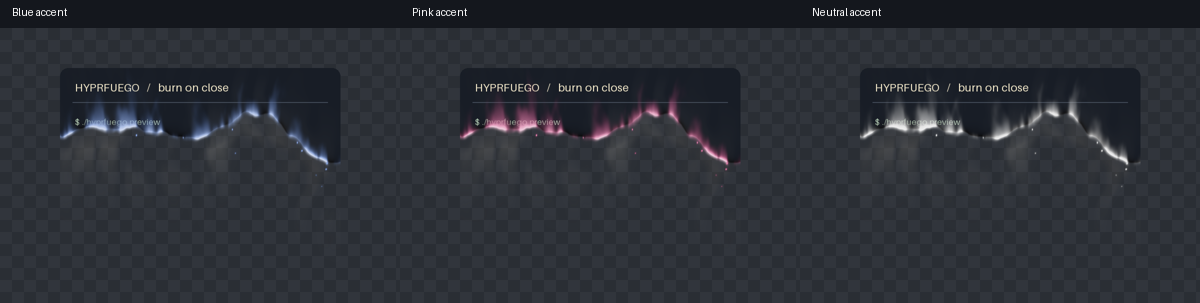
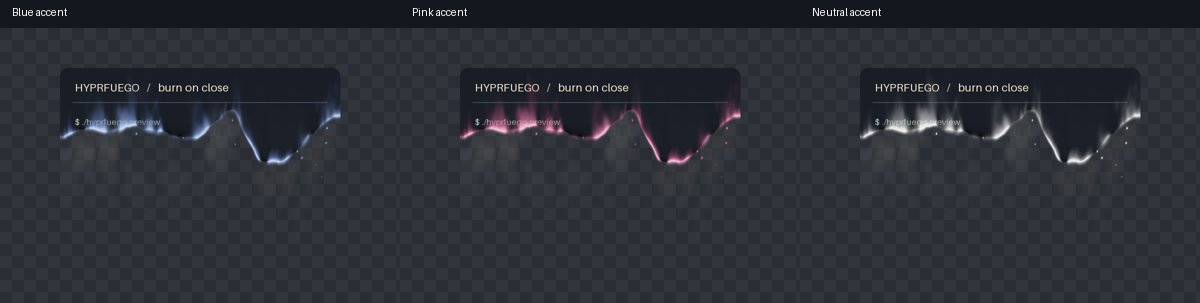
Refresh documentation and previews for smooth burn variety

diff --git a/tools/update_previews.py b/tools/update_previews.py
@@ -53,7 +53,8 @@ def main():
         shutil.copyfile(OUTPUT / name, ROOT / "build" / name)
     shutil.copyfile(OUTPUT / "variety.json", ROOT / "build/variety.json")
     report = json.loads((OUTPUT / "benchmark.json").read_text())
-    sources = ("shaders/burn-close.glsl", "tools/render.py",
+    sources = ("shaders/burn-close.glsl", "shaders/burn-close-size-preview.glsl",
+        "tools/render.py", "tools/update_previews.py", "tools/test_close_seed.cpp",
         "vendor/HyprWindowShade/BurnProfile.hpp", "vendor/HyprWindowShade/CloseSeed.hpp",
         "vendor/HyprWindowShade/ThemeColors.hpp")
     duration = float(re.search(r"(?m)^// @duration\s+([0-9.]+)", (ROOT / sources[0]).read_text())[1])

diff --git a/docs/development.md b/docs/development.md
@@ -85,8 +85,9 @@ It copies these generated assets into `docs/images/`:
 - `burn-theme-colors.png`: blue, pink and neutral flame palettes at 50% progress.
 
 `manifest.json` records the renderer, default duration, seed and source/asset
-hashes. These synthetic previews contain no desktop captures. Scratch data,
-including the 128 seeds, profiles, variety report and benchmark, stays in
+hashes, including both shader variants, the native profile regression and the
+preview generator. These synthetic previews contain no desktop captures. Scratch
+data, including the 128 seeds, profiles, variety report and benchmark, stays in
 `build/previews/`. The default `build/burn-*.png` and GIF paths are refreshed too.
 
 The README's main image, `docs/images/files-burn-desktop.png`, is a manually
@@ -99,17 +100,31 @@ The accepted profile uses 48 sparks and the original three-octave turbulence.
 It retains early lifetime rejection, spark halo culling and flame/smoke envelope
 checks. These changes reduce work while retaining the selected visual settings.
 
-Warmed 800×550 draws on an Intel HD 520, measured on 2026-10-15 with 24 draws per
-version:
+The smooth-profile variety change was measured on an Intel HD 520 with 24 warmed
+800×550 draws per version:
+
+| Shader | Median | 95th percentile |
+| --- | --- | --- |
+| Theme-colors checkpoint, five control points | 3.24 ms | 7.07 ms |
+| Four/five/six control points with independent spacing | 3.68 ms | 6.49 ms |
+
+The median increased by 0.45 ms (about 14%) in this run. Raw samples and exact
+shader hashes are in [the profile baseline](benchmarks/intel-hd520-smooth-variety-before.json)
+and [the updated profile report](benchmarks/intel-hd520-smooth-variety-after.json).
+Both retain 48 sparks and three-octave turbulence.
+
+For historical context, the earlier envelope and spark-culling optimization was
+measured on 2026-10-15, also with 24 warmed 800×550 draws per version:
 
 | Shader | Median | 95th percentile |
 | --- | --- | --- |
 | Before the performance work | 15.14 ms | 16.18 ms |
-| Current: 48 sparks, three-octave turbulence | 4.48 ms | 6.48 ms |
+| After that optimization | 4.48 ms | 6.48 ms |
 
 This run used about 70% less GPU draw time. Raw samples and tested shader hashes
-are in [the baseline report](benchmarks/intel-hd520-before.json) and
-[the current report](benchmarks/intel-hd520-current.json).
+are in [the historical baseline](benchmarks/intel-hd520-before.json) and
+[the historical optimized report](benchmarks/intel-hd520-current.json). Those
+hashes describe that earlier shader, rather than the current profile variety.
 
 These are single-pass shader timings, excluding compilation and image readback.
 They are not whole-desktop frame times or FPS measurements. Larger windows,

diff --git a/README.md b/README.md
@@ -7,7 +7,8 @@ a fresh bottom-up burn shape. The default duration is **1.15 seconds**.
 Most shapes use five smooth control points, with occasional broader four-point
 and more detailed six-point shapes. Point spacing varies independently, and the
 selector avoids shapes similar to the last sixteen closes on the workspace.
-The smooth joins and existing height limits are preserved.
+The smooth joins and existing height limits are preserved, along with the flame,
+smoke and spark animation.
 
 ![Files window closing with Hyprfuego on a live desktop](docs/images/files-burn-desktop.png)
 
@@ -18,6 +19,10 @@ The smooth joins and existing height limits are preserved.
 The screenshot shows a live Files window closing. The linked animation and
 snapshots are rendered from the actual shader on a synthetic window. This is a
 shader recreation, not a port of Compiz's particle engine.
+
+The [pattern sheet](docs/images/burn-patterns.png) shows 18 consecutive generated
+closes at the same point in the animation, making the outline variety easier to
+compare.
 
 ## Compatibility
 
@@ -157,7 +162,8 @@ python3 tools/update_previews.py --hardware # available GPU
 ```
 
 This also validates 128 native-generated close seeds and CPU/GPU profile
-agreement. Generated asset hashes and source hashes are recorded in
+agreement, including the sixteen-close workspace history. Generated asset hashes
+and source hashes are recorded in
 [the preview manifest](docs/images/manifest.json).
 
 See [development and benchmarks](docs/development.md) for native tests,

diff --git a/vendor/UPSTREAM.md b/vendor/UPSTREAM.md
@@ -25,12 +25,13 @@ client buffers.
 
 `CloseSeed.hpp` generates a fresh seed once per close, independently of recycled
 window addresses. The seed stays fixed throughout the fadeout. `BurnProfile.hpp`
-mirrors the shader's four/five/six-control bottom-up profiles with integer hashes and
-linear progress, allowing CPU/GPU agreement checks and comparison with the last
-sixteen closes on each workspace. Point spacing uses separate hash channels
-from control values, preserving smooth joins and the existing height limits.
-Candidate selection and stored workspace history
-are bounded. Open and move shaders retain their existing per-window seeds.
+mirrors the shader's four/five/six-control bottom-up profiles with integer hashes
+and linear progress, allowing CPU/GPU agreement checks and comparison with the
+last sixteen closes on each workspace. Candidate counts follow a 20/60/20 percent
+mix. Point spacing uses separate hash channels from control values, preserving
+smooth joins and the existing height limits. Candidate selection and stored
+workspace history are bounded. Open and move shaders retain their existing
+per-window seeds.
 
 ## Main-window filter
 
